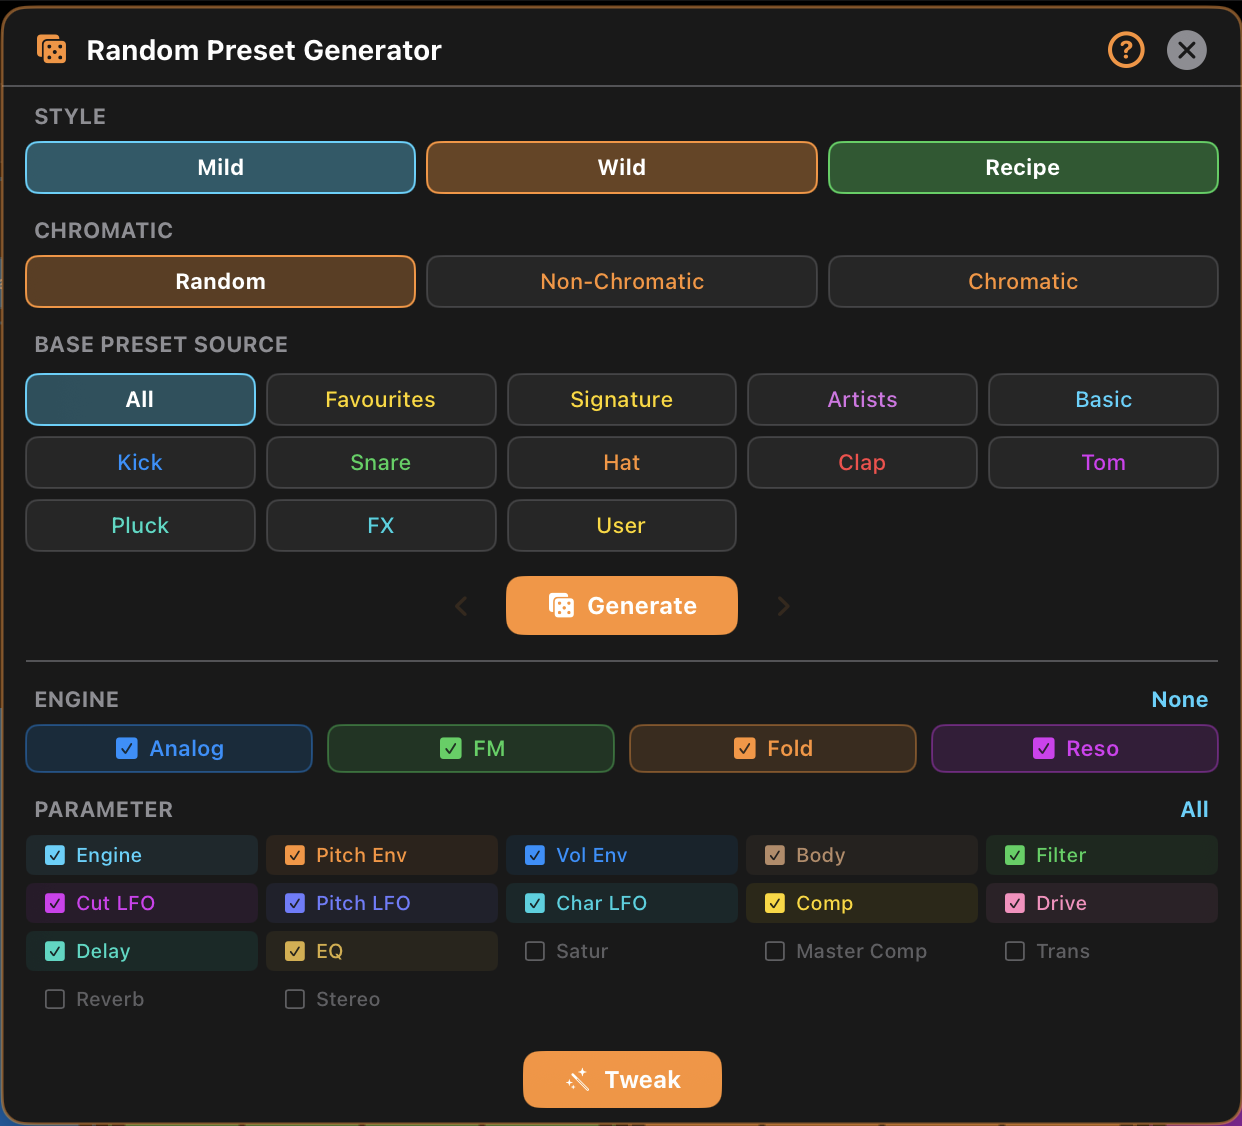
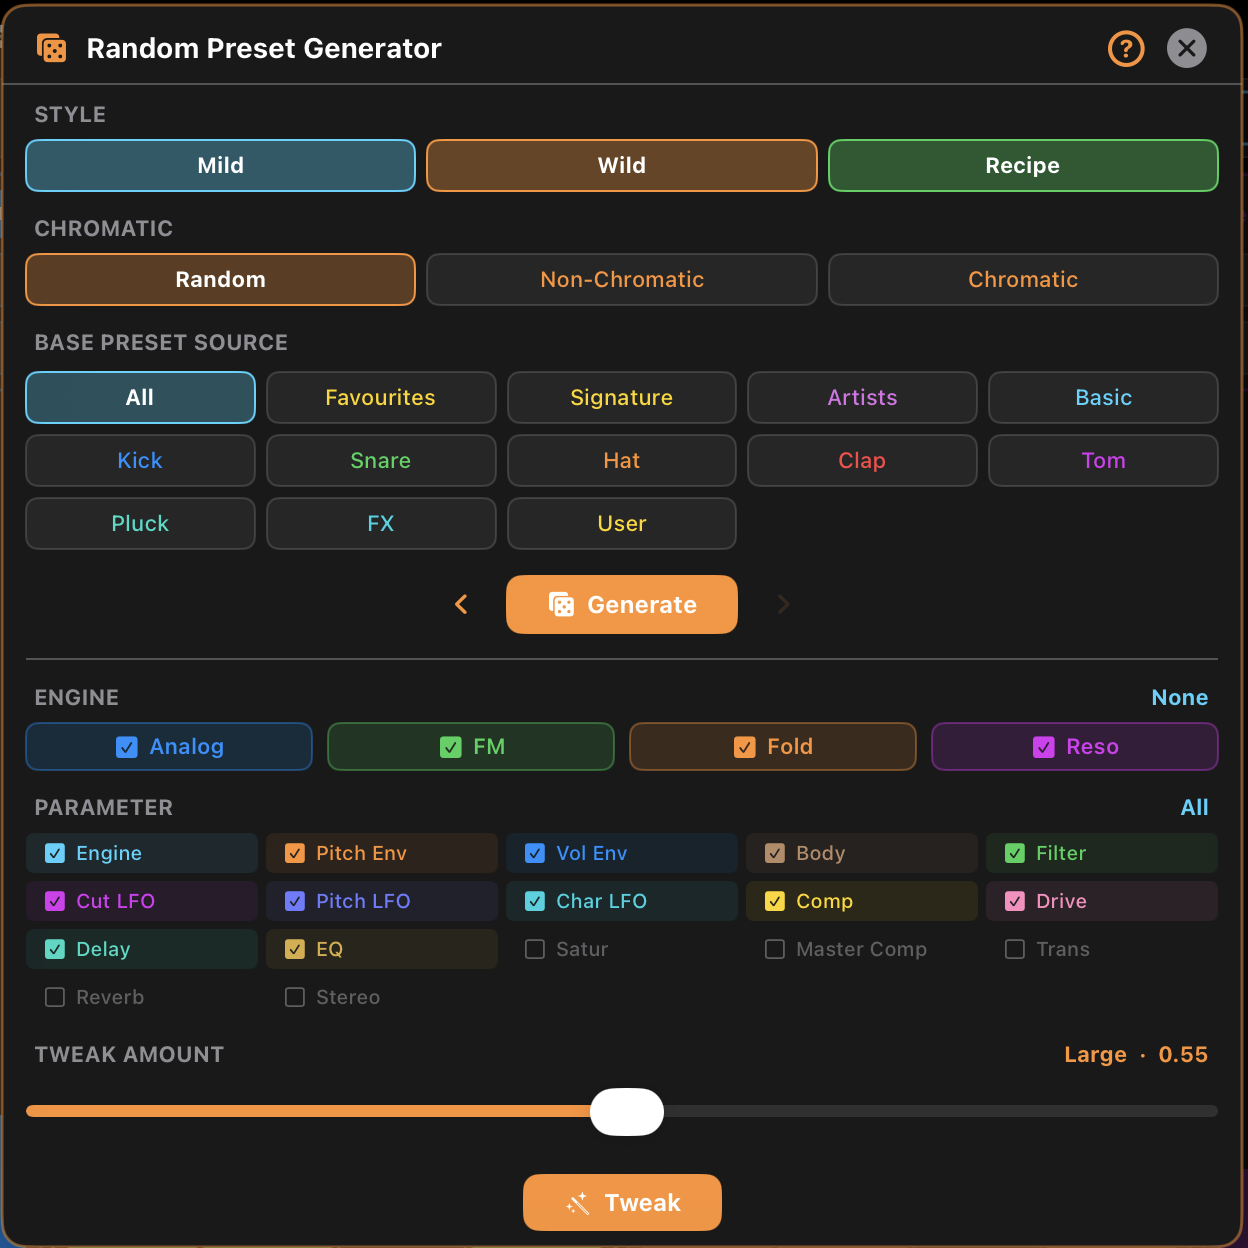
Bruno manual: document Tweak Amount, reorder RPG section to match dialog
- New 19.7 Tweak Amount subsection: nudge-not-reroll behaviour, strength labels, default snap, scope across all wands, persistence and AUv3 exposure
- Move Chromatic mode up to 19.4 to match panel layout; renumber 19.4-19.10 and TOC
- Cross-link Tweak Amount from the 4.4 wand description and the 19.2 systems table

diff --git a/brunomanual.html b/brunomanual.html
@@ -80,12 +80,13 @@
         <li class="subsection"><a href="#rpg-styles">19.1 Styles — Mild, Wild &amp; Recipe</a></li>
         <li class="subsection"><a href="#rpg-systems">19.2 Three ways to randomise</a></li>
         <li class="subsection"><a href="#rpg-opening">19.3 Opening the panel &amp; the toolbar dice</a></li>
-        <li class="subsection"><a href="#rpg-source">19.4 Base Preset Source</a></li>
-        <li class="subsection"><a href="#rpg-targeting">19.5 Engine &amp; Parameter Targeting</a></li>
-        <li class="subsection"><a href="#rpg-chromatic">19.6 Chromatic mode</a></li>
-        <li class="subsection"><a href="#rpg-category-modes">19.7 Category behaviours</a></li>
-        <li class="subsection"><a href="#rpg-master">19.8 Master Section and Randomisation</a></li>
-        <li class="subsection"><a href="#rpg-history">19.9 Random Preset History</a></li>
+        <li class="subsection"><a href="#rpg-chromatic">19.4 Chromatic mode</a></li>
+        <li class="subsection"><a href="#rpg-source">19.5 Base Preset Source</a></li>
+        <li class="subsection"><a href="#rpg-targeting">19.6 Engine &amp; Parameter Targeting</a></li>
+        <li class="subsection"><a href="#tweak-amount">19.7 Tweak Amount</a></li>
+        <li class="subsection"><a href="#rpg-category-modes">19.8 Category behaviours</a></li>
+        <li class="subsection"><a href="#rpg-master">19.9 Master Section and Randomisation</a></li>
+        <li class="subsection"><a href="#rpg-history">19.10 Random Preset History</a></li>
         <li><a href="#scope">20. Scope &amp; Spectrum</a></li>
         <li><a href="#app-preferences">21. App Preferences</a></li>
         <li class="subsection"><a href="#performance-settings">21.1 Performance Settings</a></li>
@@ -219,7 +220,7 @@
         <p>Seven tabs include a <strong>Copy to All</strong> button (the doc-on-doc icon) on each engine card: <strong>Body, Filter, Compressor, Drive, Delay, EQ</strong> and the three <strong>LFO</strong> tabs. One tap copies the current engine's settings for that tab to the other three engines. It's a one-shot operation — afterwards all four engines are still fully independent and can be tweaked freely. The button is tinted to match the engine (Analog blue, FM green, Fold orange, Resonant purple).</p>
         <p>The <strong>Engines, Vol Env, Pitch Env</strong> and <strong>Master</strong> tabs have no Copy to All, because their parameters are usually meant to differ between engines (different modes, tuning and character).</p>
         <h4>Per-tab Tweak (the wand)</h4>
-        <p>Every engine card on every tab has a small <strong>wand</strong> button. Tapping it rerolls <em>only that engine's parameters for that one tab</em>. Tweak never flips an engine on or off, and never toggles a section's enabled state (filter on/off, body on/off, etc.). On the Master tab, each FX section has its own green wand; the Limiter has none, however it is on by default to manage clipping.</p>
+        <p>Every engine card on every tab has a small <strong>wand</strong> button. Tapping it nudges <em>only that engine's parameters for that one tab</em>, moving them a step toward a fresh roll rather than re-rolling from scratch — repeated taps compound, so you can creep the sound in a direction one pass at a time. How big each step is comes from the <a href="#tweak-amount">Tweak Amount</a> slider in the Random Preset Generator. Tweak never flips an engine on or off, and never toggles a section's enabled state (filter on/off, body on/off, etc.). On the Master tab, each FX section has its own green wand; the Limiter has none, however it is on by default to manage clipping.</p>
 
         <h3 id="hints">4.5 Hints — the <span class="ui">?</span> button</h3>
         <p>Every tab has its own built-in help, so you never have to leave Bruno to look something up. Tap the <span class="ui">?</span> at the far left of the Master Strip to open the <strong>Hints</strong> dialog for the current tab.</p>
@@ -771,7 +772,7 @@
           <thead><tr><th>System</th><th>Where</th><th>What it does</th></tr></thead>
           <tbody>
             <tr><td>Generate</td><td>Generate button in the panel, or the 🎲 dice on the Master Strip</td><td>Rolls a completely new sound, using your active <strong>Style</strong> (see <a href="#rpg-styles">19.1 Styles</a>) and selected category. Produces a fresh drum that still belongs to the category you chose. The Master Strip dice does exactly the same thing as the panel's Generate button.</td></tr>
-            <tr><td>Tweak</td><td>Tweak button in the panel</td><td>Mutates the <strong>currently loaded sound</strong>, affecting only the engines and parameter groups you've ticked. Evolves a patch without losing it.</td></tr>
+            <tr><td>Tweak</td><td>Tweak button in the panel</td><td>Mutates the <strong>currently loaded sound</strong>, affecting only the engines and parameter groups you've ticked, at the strength set by the <a href="#tweak-amount">Tweak Amount</a> slider. Evolves a patch without losing it.</td></tr>
             <tr><td>Per-engine dice / wand</td><td>Each engine card</td><td>Rerolls a single engine — the card dice on the Engines tab, the per-tab wand elsewhere. Tight, surgical changes to just that engine's controls on that tab.</td></tr>
           </tbody>
         </table>
@@ -779,7 +780,7 @@
         <h3 id="rpg-opening">19.3 Opening the panel &amp; the toolbar dice</h3>
         <ul>
           <li><strong>Random panel button</strong> in the header — labelled with the current Base Preset Source. Tap it to open the Random Preset Generator, where the Generate button, Tweak button, the Style pills and all the targeting toggles live. The panel header also has a <span class="ui">?</span> hint button explaining how the generator works.</li>
-          <li><strong>🎲 Dice button</strong> in the Master Strip — a one-tap shortcut that runs Generate directly using your current settings, without opening the panel. It's flanked by history chevrons (see <a href="#rpg-history">19.9 Random Preset History</a>).</li>
+          <li><strong>🎲 Dice button</strong> in the Master Strip — a one-tap shortcut that runs Generate directly using your current settings, without opening the panel. It's flanked by history chevrons (see <a href="#rpg-history">19.10 Random Preset History</a>).</li>
         </ul>
 
         <h4 id="dice-label">The dice label</h4>
@@ -791,11 +792,14 @@
         </ul>
         <p>So <span class="ui">Kick.MR-C</span> means "Kick category, alternating between Mild and Recipe rolls, all chromatic", and <span class="ui">Favs.MWR-NC</span> means "Favourites, any Style, fixed-pitch". The label updates instantly whenever you change the source category, the Style selection or the Chromatic override.</p>
 
-        <h3 id="rpg-source">19.4 Base Preset Source</h3>
-        <p>The Base Preset Source grid chooses which category Bruno draws inspiration from when Generate rolls a new sound: any of the per-voice categories (<strong>Kick, Snare, Hat, Clap, Tom, Pluck</strong>), the curated <strong>Signature</strong> and <strong>Artists</strong> sets, the <strong>FX</strong> and <strong>Basic</strong> sets, plus <strong>All</strong>, <strong>Favourites</strong> and <strong>User</strong>. It silently falls back to <strong>All</strong> if the chosen category is empty.</p>
-        <p>Each category isn't just a filter for the base preset — it also shapes <em>how</em> Generate builds the sound. See <a href="#rpg-category-modes">19.7 Category behaviours</a> below.</p>
+        <h3 id="rpg-chromatic">19.4 Chromatic mode</h3>
+        <p>A <strong>Chromatic</strong> override decides whether new sounds track MIDI pitch, affecting both Generate and Tweak. Turn it on and rolls come out playable melodically across the keyboard (carrying the violet <span class="c-badge">C</span> badge); leave it off and they stay fixed-pitch drums. It's the randomiser's counterpart to the per-engine Chromatic toggle on the <a href="#pitch-env">Pitch Env</a> tab (see <a href="#pitch-env">9. Pitch Env</a>).</p>
 
-        <h3 id="rpg-targeting">19.5 Engine &amp; Parameter Targeting</h3>
+        <h3 id="rpg-source">19.5 Base Preset Source</h3>
+        <p>The Base Preset Source grid chooses which category Bruno draws inspiration from when Generate rolls a new sound: any of the per-voice categories (<strong>Kick, Snare, Hat, Clap, Tom, Pluck</strong>), the curated <strong>Signature</strong> and <strong>Artists</strong> sets, the <strong>FX</strong> and <strong>Basic</strong> sets, plus <strong>All</strong>, <strong>Favourites</strong> and <strong>User</strong>. It silently falls back to <strong>All</strong> if the chosen category is empty.</p>
+        <p>Each category isn't just a filter for the base preset — it also shapes <em>how</em> Generate builds the sound. See <a href="#rpg-category-modes">19.8 Category behaviours</a> below.</p>
+
+        <h3 id="rpg-targeting">19.6 Engine &amp; Parameter Targeting</h3>
         <p>Only <strong>Tweak</strong> respects these two sets of toggles — Generate ignores them and always rolls a complete new preset:</p>
         <ul>
           <li><strong>Engines</strong> — choose which of the four engines (<span class="eng-tag analog">Analog</span> <span class="eng-tag fm">FM</span> <span class="eng-tag fold">Fold</span> <span class="eng-tag reso">Resonant</span>) Tweak is allowed to change. Untick an engine to leave it untouched — e.g. keep a solid Analog sub stable while tweaking the other three.</li>
@@ -803,10 +807,19 @@
         </ul>
         <p>Use the <strong>None</strong> link to clear everything, then enable just the engines and parameters you're curious about.</p>
 
-        <h3 id="rpg-chromatic">19.6 Chromatic mode</h3>
-        <p>A <strong>Chromatic</strong> override decides whether new sounds track MIDI pitch, affecting both Generate and Tweak. Turn it on and rolls come out playable melodically across the keyboard (carrying the violet <span class="c-badge">C</span> badge); leave it off and they stay fixed-pitch drums. It's the randomiser's counterpart to the per-engine Chromatic toggle on the <a href="#pitch-env">Pitch Env</a> tab (see <a href="#pitch-env">9. Pitch Env</a>).</p>
+        <h3 id="tweak-amount">19.7 Tweak Amount</h3>
+        <p>Below the targeting toggles sits the <strong>Tweak Amount</strong> slider. Tweak is a <em>nudge</em>, not a re-roll — each press moves the current values a fraction of the way toward a fresh roll, and this slider sets how big that fraction is. Slide left for tiny refinements, right for bold shifts. The word beside the title names the current strength as you drag:</p>
+        <table class="param-table">
+          <thead><tr><th>Strength</th><th>Feel</th></tr></thead>
+          <tbody>
+            <tr><td>Minimal / Subtle</td><td>Barely-there refinements — polish a sound you already like without risking its character.</td></tr>
+            <tr><td>Medium / Default</td><td>The standard feel (the slider snaps back to <span class="ui">Default · 0.45</span> so you can always return to it). Clearly audible movement that still respects the sound.</td></tr>
+            <tr><td>Large / Extra Large / Max</td><td>Bold shifts — each press takes the sound most of the way to a fresh roll while keeping its broad shape.</td></tr>
+          </tbody>
+        </table>
+        <p>This one setting governs <strong>every</strong> Tweak in Bruno: the panel's Tweak button, the per-tab wand on each engine card, and the green wands on the Master sections. Repeated presses compound at the chosen strength, so a low amount lets you creep a sound in a direction one careful pass at a time, while a high amount gets somewhere new in a press or two — and a press never does nothing, even at the lowest setting. The value is remembered across sessions, and in the AUv3 plugin it's also exposed as an AU parameter your host can automate or MIDI-map. Every step still lands in the <a href="#rpg-history">Random Preset History</a>, so you can walk back through your tweaks whatever the amount.</p>
 
-        <h3 id="rpg-category-modes">19.7 Category behaviours (Generate only)</h3>
+        <h3 id="rpg-category-modes">19.8 Category behaviours (Generate only)</h3>
         <p>On top of the Style you pick, the chosen category shapes the result. For the <strong>Mild</strong> and <strong>Wild</strong> Styles the generator tunes the sound to suit the category; the <strong>Recipe</strong> Style draws on archetypes built for that category. Each category is designed to give results that sound like it — the table shows what to expect, so you can choose deliberately.</p>
         <table class="param-table">
           <thead><tr><th>Category</th><th>What to expect</th></tr></thead>
@@ -824,14 +837,14 @@
           <strong>Variations on your own sounds.</strong> If you want versions of a sound rather than something brand-new, set the Base Preset Source to <strong>User</strong> or <strong>Favourites</strong> and tap Generate a few times — you'll get siblings of an existing drum without losing its character. If the chosen category is empty (no saved User presets or starred Favourites yet), Bruno falls back to <strong>All</strong>.
         </div>
 
-        <h3 id="rpg-master">19.8 Master Section and Randomisation</h3>
+        <h3 id="rpg-master">19.9 Master Section and Randomisation</h3>
         <div class="callout note">
           <strong>Generate doesn't roll the Master chain from scratch, but the Tweak system can target it.</strong> A fresh Generate never randomises Saturation, Compressor, Transient Shaper, Reverb, Stereo and Limiter directly — but you can tweak them deliberately whenever you want.
         </div>
         <p><strong>Generate changes the Master chain indirectly</strong>: because it first loads a random base preset (then mutates the voice parameters on top), that preset's master chain comes along for the ride. Each Generate press therefore brings a different, complementary master character — designed alongside the sound — rather than mangled random effects.</p>
         <p><strong>Tweak can be applied to the Master tab</strong> two ways: through the Tweak section of the Random Preset Generator, or directly via the green wand on each Master section, which tweaks just that section (for example the Reverb without touching the Compressor or Saturation). Outside of these, your Master settings stay exactly as you left them.</p>
 
-        <h3 id="rpg-history">19.9 Random Preset History</h3>
+        <h3 id="rpg-history">19.10 Random Preset History</h3>
         <p>Randomisation is meant to be explored fearlessly, so Bruno remembers where you've been. Every result from all three systems is pushed to a shared <strong>history</strong> of the last <strong>100</strong> sounds. The orange chevrons either side of the dice (and either side of the Generate button) step back and forward through it; a chevron dims when there's nowhere further to go. Stepping back never erases anything — new rolls are simply appended.</p>
         <div class="callout tip">
           <strong>Roll freely, then walk it back.</strong> Hit the dice ten times chasing an idea, then use the back chevron to return to the one that caught your ear three rolls ago.
